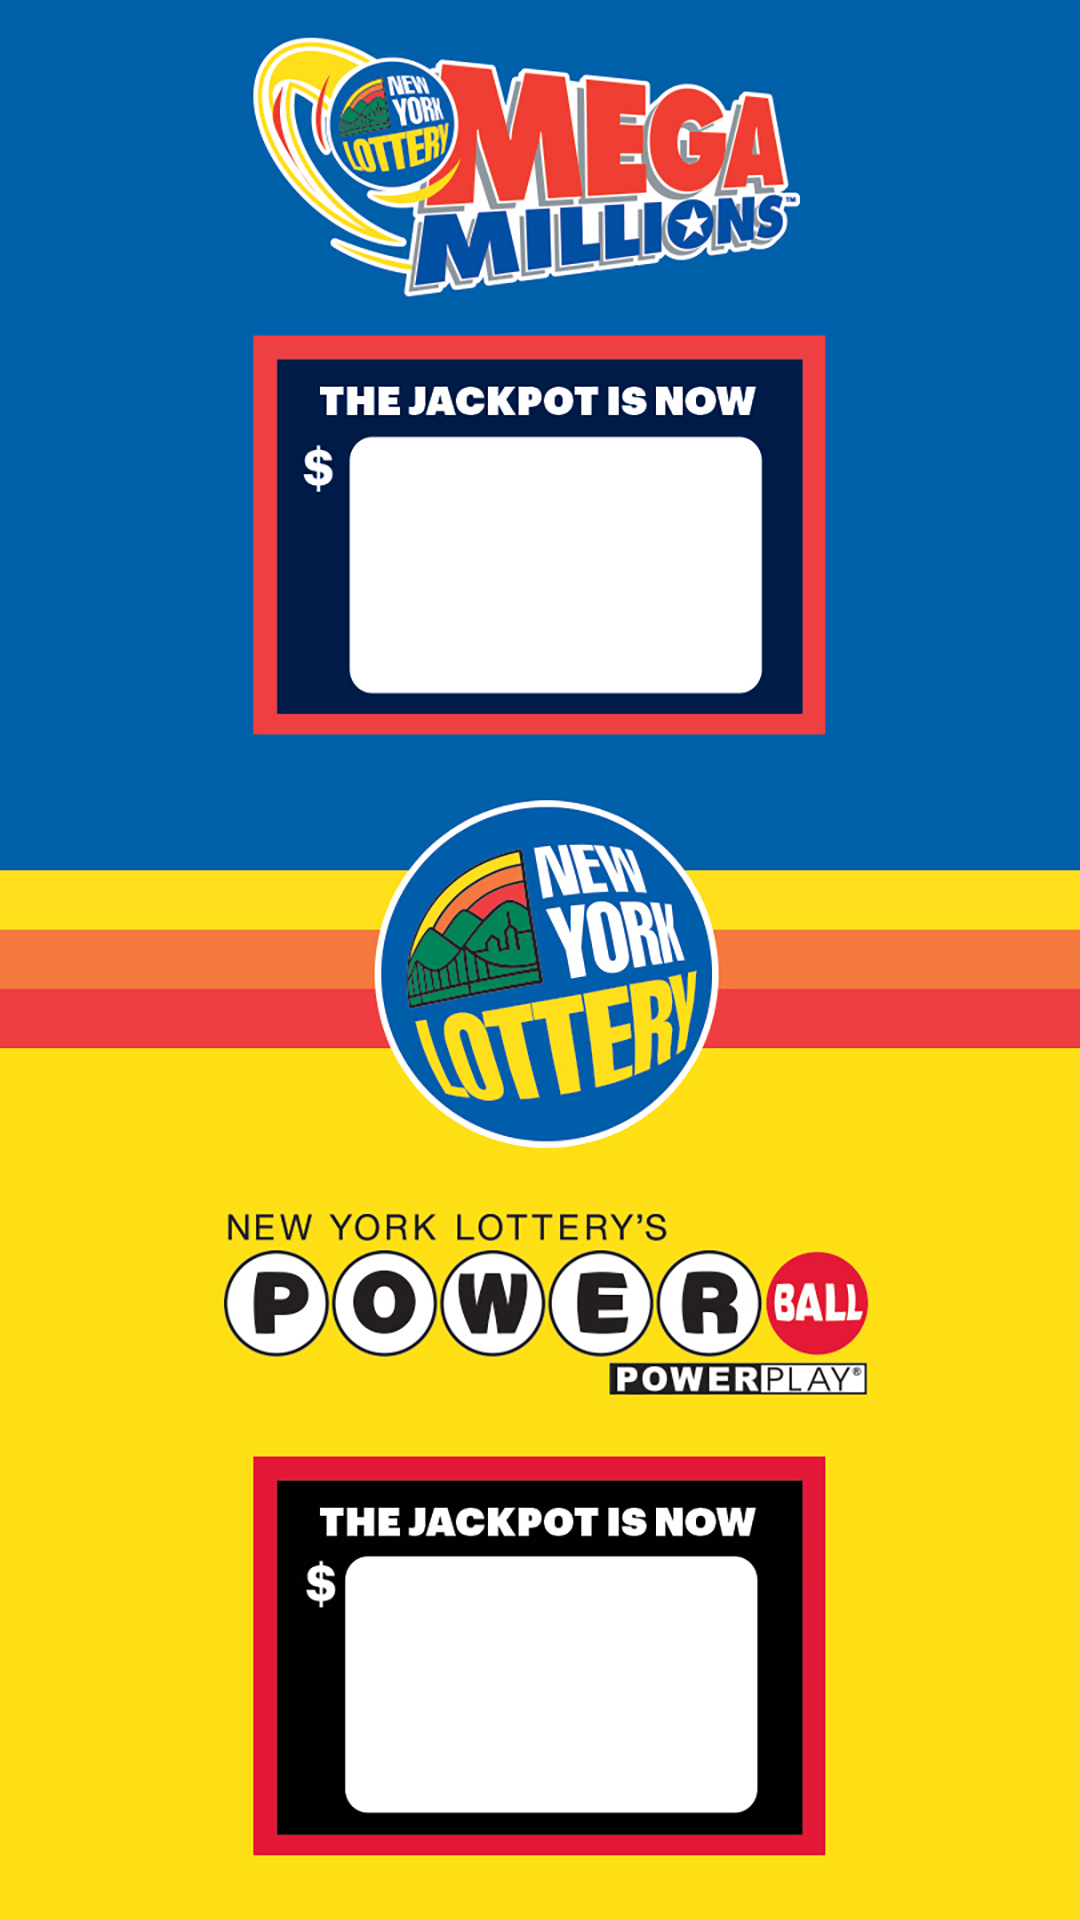
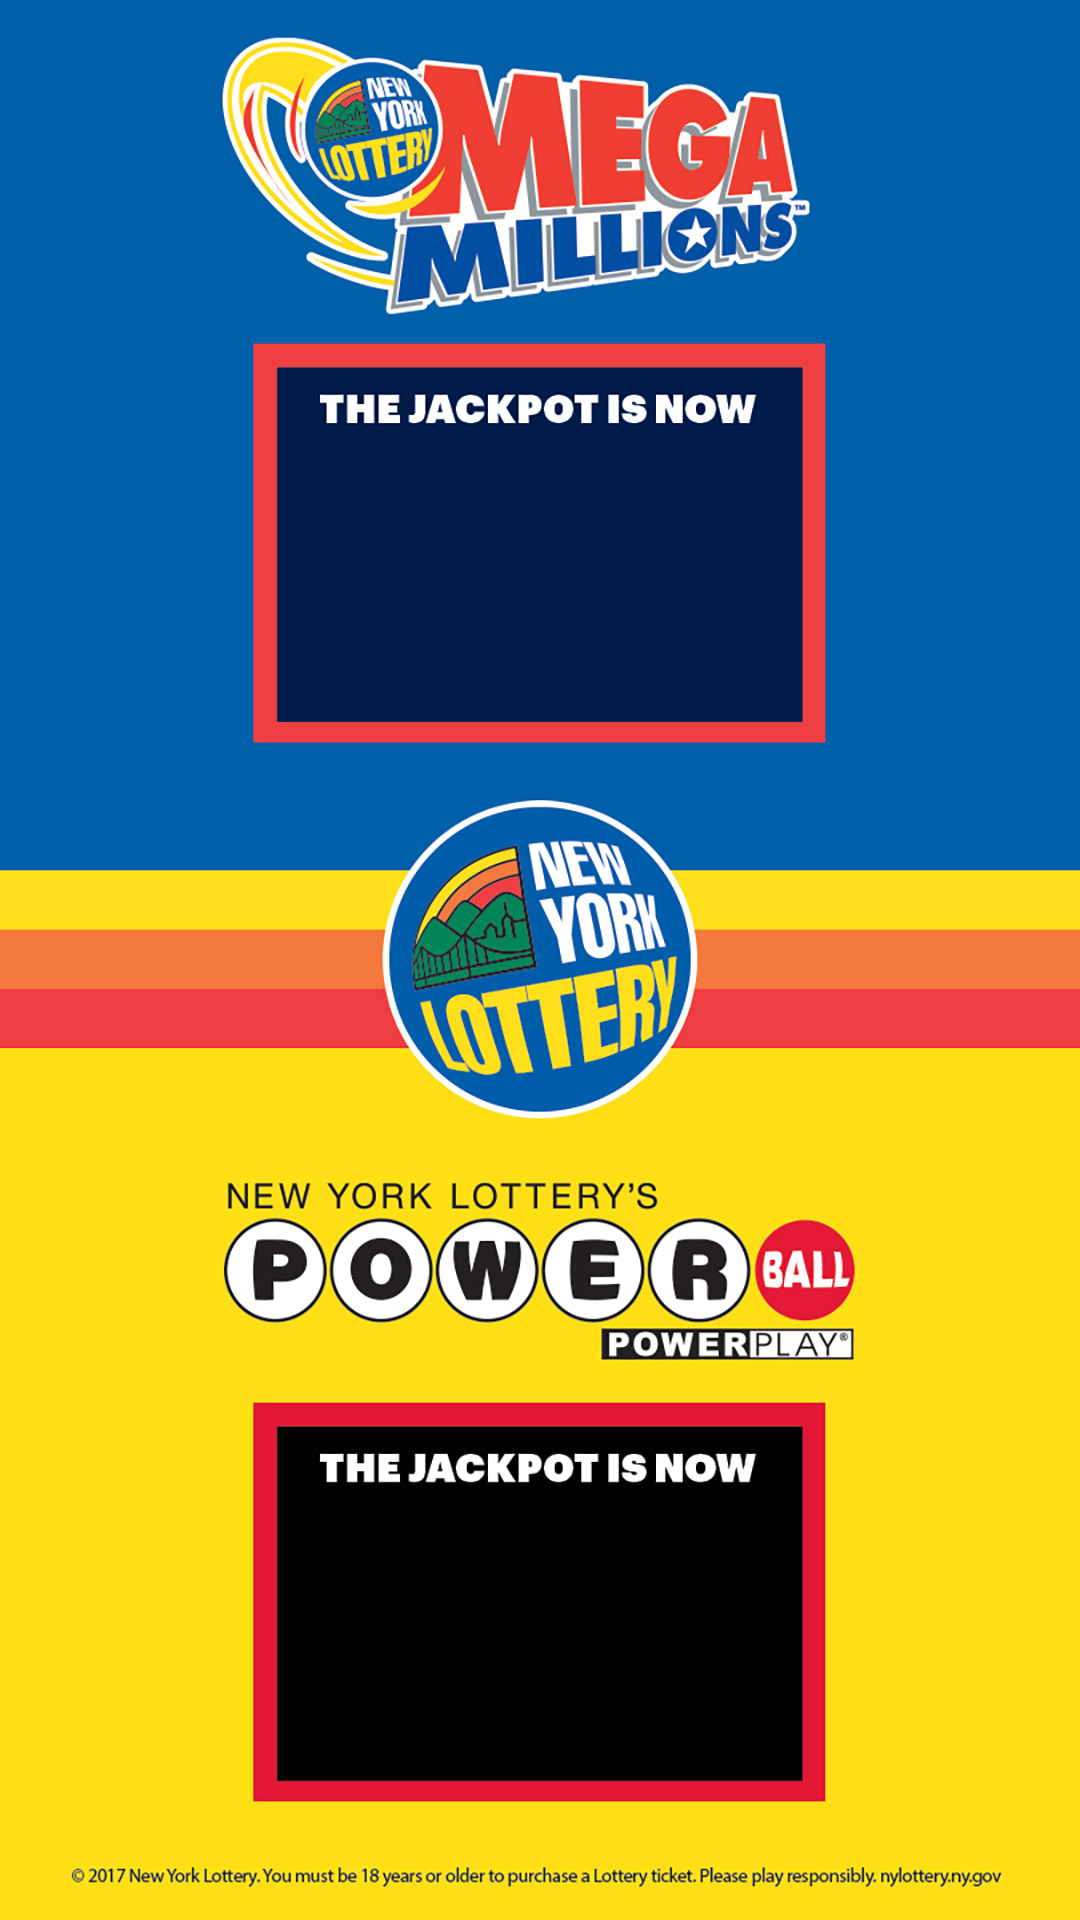
jackpot css ready

Changed region(s): [[0.0611, 0.0, 0.9167, 1.0]]

diff --git a/css/main.css b/css/main.css
@@ -1,69 +1,127 @@
-@font-face {
-  font-family: "Graphik";
-  src: url('assets/fonts/Graphik-Black.otf');
-}
+    @font-face {
+      font-family: "Graphik";
+      src: url('assets/fonts/Graphik-Black.otf');
+    }
 
-html, body {
-  width: 1080px;
-  height: 1920px;
-  padding: 0;
-  margin: 0;
-  overflow: hidden;
-  background-color: #000;
-}
+    html, body {
+      width: 1080px;
+      height: 1920px;
+      padding: 0;
+      margin: 0;
+      overflow: hidden;
+      background-color: #000;
+    }
 
-#container {
-  width: 1080px;
-  height: 1920px;
-  margin: 0;
-  overflow: hidden;
-  color: #fff;
-  background-image: url('assets/images/lotto-bg.jpg');
-}
+    #container {
+      width: 1080px;
+      height: 1920px;
+      margin: 0;
+      overflow: hidden;
+      color: #fff;
+      background-image: url('assets/images/lotto-bg.jpg');
+    }
 
-.placeholder {
-  position: absolute;
-  top: 0;
-  left: 0;
-  width: 1080px;
-  height: 1920px;
-}
+    .placeholder {
+      position: absolute;
+      top: 0;
+      left: 0;
+      width: 1080px;
+      height: 1920px;
+    }
 
-.placeholder.invisible {
-  opacity: 0;
-}
+    .placeholder.invisible {
+      opacity: 0;
+    }
 
-.lotto-container {
-  position: absolute;
-  background-color: white;
-  width: 385px;
-  height: 215px;
-  left: 363px;
-  text-align: center;
-}
+    .lotto-container {
+      position: absolute;
+      width: 460px;
+      height: 185px;
+      left: 315px;
+      text-align: center;
+      margin-top: -25px;
+    }
 
-span.jackpot {
-  display: inline-block;
-  width: inherit;
-  color: red;
-  font-size: 180px;
-  font-family: "Graphik", serif;
-  margin-top: -25px;
-}
+    span.jackpot {
+      display: inline-block;
+      width: inherit;
+      margin-top: -25px;
+    }
+    /* Jackpot Mask */
 
-span.quantifier {
-  display: inline-block;
-  width: inherit;
-  color: red;
-  font-size: 60px;
-  font-family: "Graphik", serif;
-  margin-top: -20px;
-}
+    span.jackpot::before {
+      content: url(../assets/images/mask-top.png);
+      position: absolute;
+      margin-left: 11px;
+      margin-top: 108px;
+    }
+    /* Single Numbers */
 
-#megamillions-container {
-  top: 460px;
-}
+    .numbers-single {
+      border-radius: 10px;
+      color: red;
+      background-color: white;
+      font-size: 180px;
+      font-family: "Graphik", serif;
+      margin-top: 10px;
+      margin-top: 25px;
+      text-align: center;
+      margin-left: 11px;
+      width: 30%;
+      height: 185px;
+      display: inline-block;
+    }
+    /* Jackpot '$' Symbol */
 
-#powerball-container {
-  top: 1580px;
-}
+    .numbers-single:nth-child(1):before {
+      content: '$';
+      position: absolute;
+      color: red;
+      font-size: 30px;
+      top: 10px;
+    }
+
+    .jackpot:first-child {
+      margin-left: -24px;
+    }
+
+    .jackpot:last-child {
+      margin-right: -10px;
+    }
+
+    span.quantifier {
+      display: inline-block;
+      width: inherit;
+      color: white;
+      font-size: 60px;
+      font-family: "Graphik", serif;
+      margin-top: 9px;
+    }
+    /* Power Ball */
+
+    .numbers-powerball {
+      border-radius: 10px;
+      color: red;
+      background-color: white;
+      font-size: 150px;
+      font-family: "Graphik", serif;
+      margin-top: 10px;
+      margin-top: 25px;
+      text-align: center;
+      margin-left: 11px;
+      width: 25%;
+      height: 150px;
+      display: inline-block;
+    }
+
+    .numbers-powerball:nth-child(3) {
+      width: 10%
+    }
+
+    #megamillions-container {
+      top: 460px;
+    }
+
+    #powerball-container {
+      top: 1580px;
+    }

diff --git a/html/index.html b/html/index.html
@@ -1,21 +1,24 @@
 <!DOCTYPE html>
 <html>
-  <head>
-    <meta charset="utf-8">
-    <title>Cortex Test HTML5 App</title>
-    <meta name="viewport" content="width=device-width, initial-scale=1">
-  </head>
-  <body>
-    <div id="container">
-      <div id="megamillions-container" class="lotto-container">
-        <span id="megamillions-jackpot" class="jackpot">0</span>
-        <span id="megamillions-quantifier" class="quantifier">MILLION</span>
-      </div>
-      <div id="powerball-container" class="lotto-container">
-        <span id="powerball-jackpot" class="jackpot">0</span>
-        <span id="powerball-quantifier" class="quantifier">MILLION</span>
-      </div>
+
+<head>
+  <meta charset="utf-8">
+  <title>Cortex Test HTML5 App</title>
+  <meta name="viewport" content="width=device-width, initial-scale=1">
+</head>
+
+<body>
+  <div id="container">
+    <div id="megamillions-container" class="lotto-container">
+      <span id="megamillions-jackpot" class="jackpot">0</span>
+      <span id="megamillions-quantifier" class="quantifier">MILLION</span>
     </div>
-    <script src="bundle.js"></script>
-  </body>
+    <div id="powerball-container" class="lotto-container">
+      <span id="powerball-jackpot" class="powerball">0</span>
+      <span id="powerball-quantifier" class="quantifier">MILLION</span>
+    </div>
+  </div>
+  <script src="bundle.js"></script>
+</body>
+
 </html>

diff --git a/src/view.js b/src/view.js
@@ -168,9 +168,20 @@ class View {
     var megamillions = this.parseJackpot(row.megamillions_nextjackpot);
     var powerball = this.parseJackpot(row.powerball_nextjackpot);
 
-    this.megamillionsJackpotSpan.innerText = megamillions.amount;
+    // this.megamillionsJackpotSpan.innerText = megamillions.amount;
+    this.megamillionsJackpotSpan.innerHTML = megamillions.amount
+      .split('')
+      .map(number => {
+        return `<div class="numbers-single">${number}</div>`
+      })
+      .join('');
     this.megamillionsQuantifierSpan.innerText = megamillions.unit;
-    this.powerballJackpotSpan.innerText = powerball.amount;
+    this.powerballJackpotSpan.innerHTML = powerball.amount
+    .split('')
+    .map(number => {
+      return `<div class="numbers-powerball">${number}</div>`
+    })
+    .join('');
     this.powerballQuantifierSpan.innerText = powerball.unit;
   }
 }
